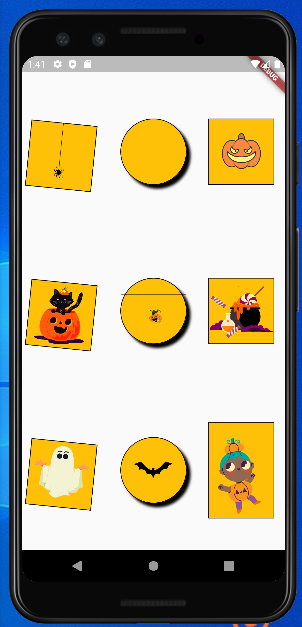
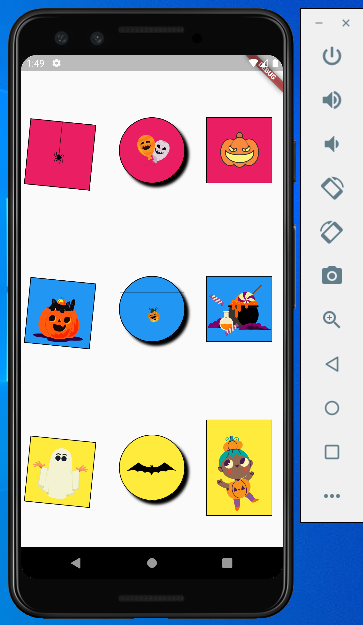
c

diff --git a/lib/widgets/rows.dart b/lib/widgets/rows.dart
@@ -1,3 +1,5 @@
+import 'dart:math';
+
 import 'package:flutter/material.dart';
 import 'package:flutter_application_curso/model/contenido.dart';
 import 'package:lottie/lottie.dart';
@@ -45,7 +47,7 @@ class ScreanRow extends StatelessWidget {
   }
 
   BoxDecoration deco = BoxDecoration(
-    color: Colors.amber,
+    color: Colors.primaries[Random().nextInt(Colors.primaries.length)],
     border: Border.all(style: BorderStyle.solid),
     //shape: BoxShape.circle,
   );
